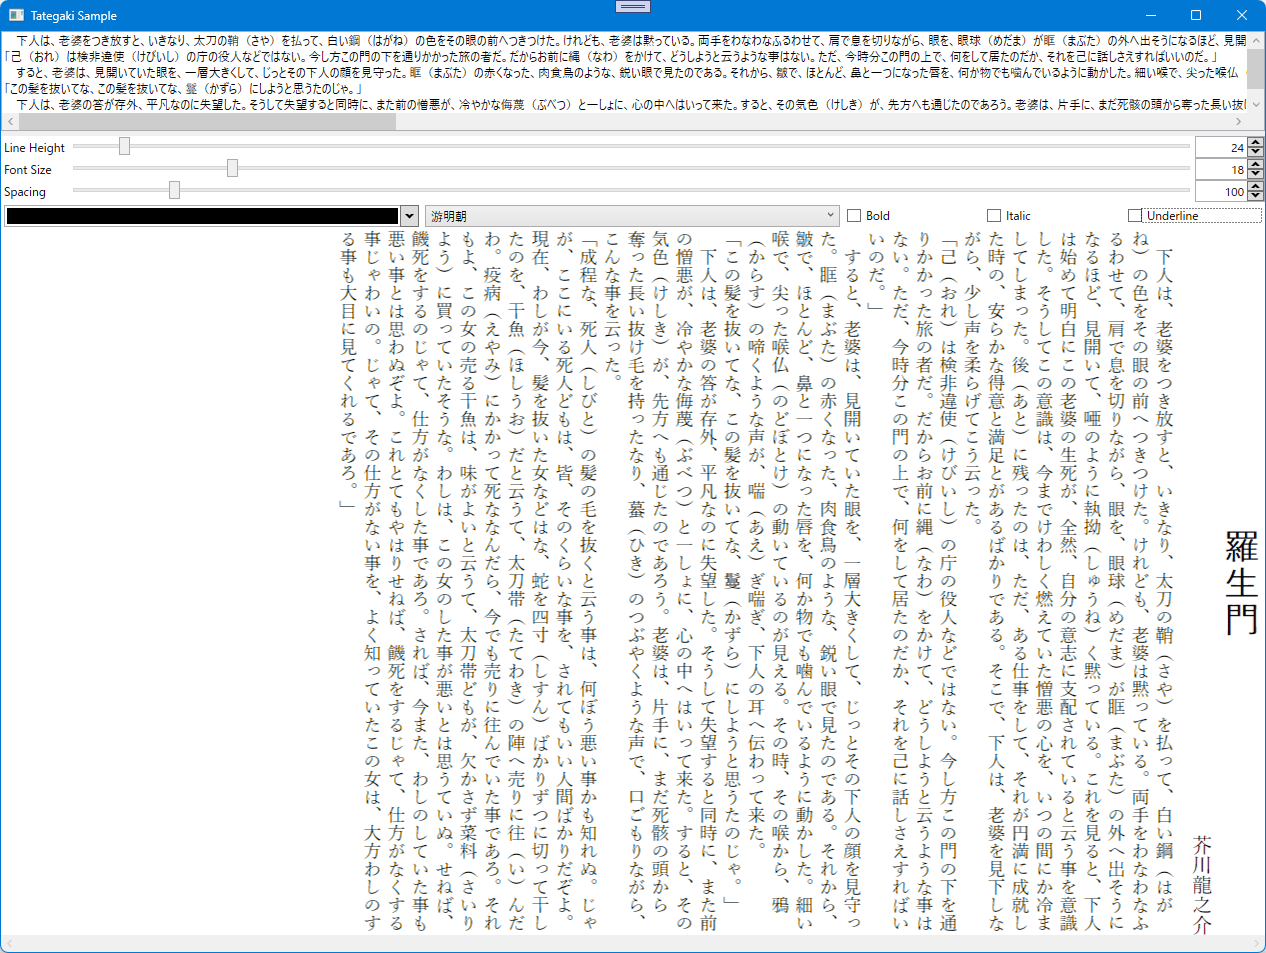
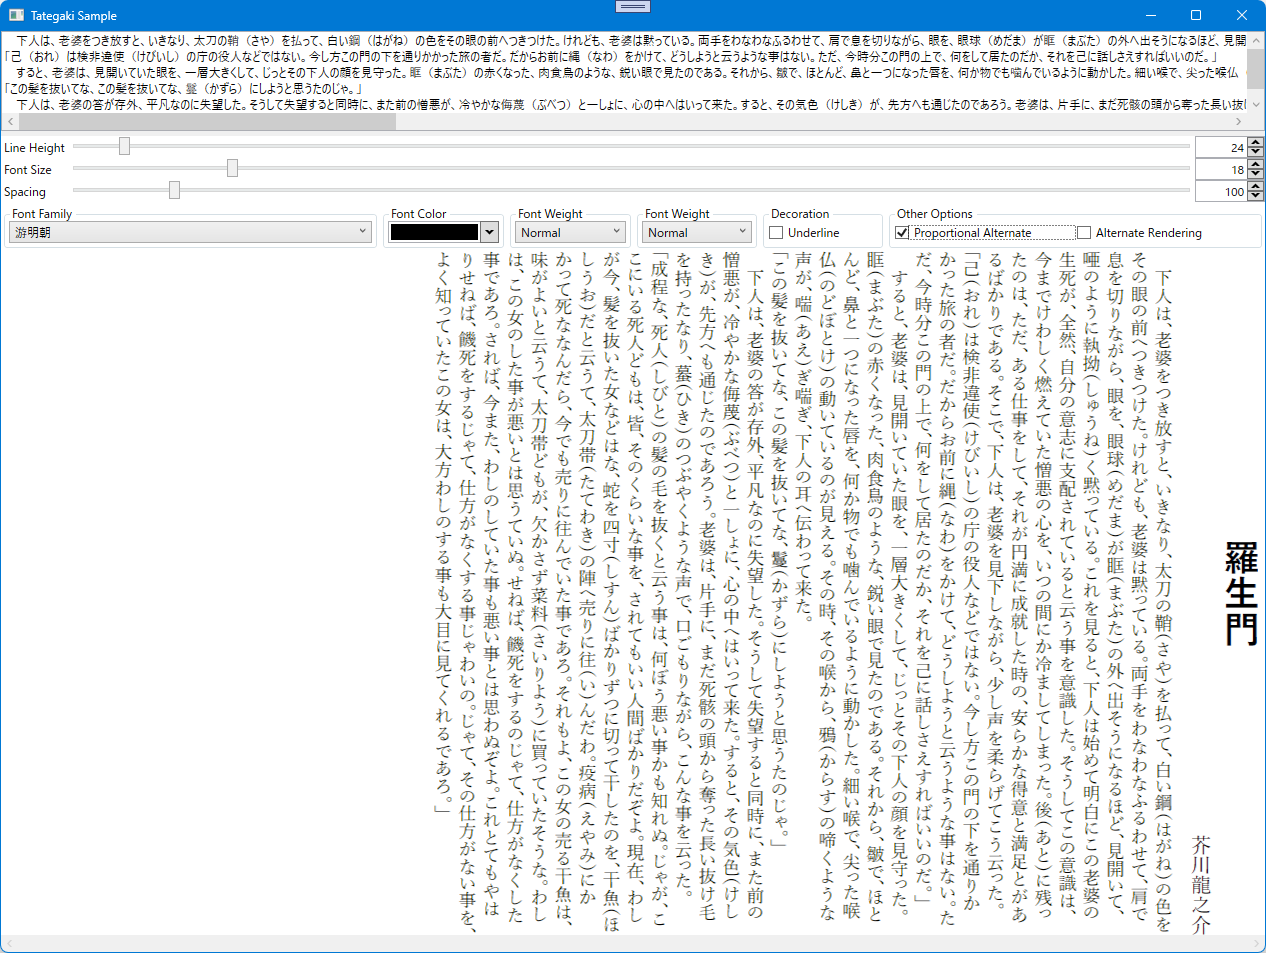
Readmeを更新

Changed region(s): [[0.0, 0.213, 0.955, 0.9738], [0.955, 0.5477, 1.0, 0.6999]]

diff --git a/README-en.md b/README-en.md
@@ -3,11 +3,11 @@
 # WPF Vertical TextBlock "Tategaki"
 
 This control library provides WPF vertical TextBlock.  
-WPF doesn't support vertical writing so that it is difficult to show a text vertically like a Japnese text. However, this control realize a vertical text like a WPF standard TextBlock control easily.
+WPF doesn't support vertical writing so that it is difficult to show a sentense vertically like a Japnese traditional style. However, this control realize a vertical writing like WPF standard TextBlock control easily.
 
 "Tategaki" means "Vertical writing" in Japanese.
 
-![](https://img.shields.io/badge/Nuget-3.1.0-blue?logo=nuget&style=plastic)
+![](https://img.shields.io/badge/Nuget-3.2.0-blue?logo=nuget&style=plastic)
 ![](https://img.shields.io/badge/.NET_Framework-4.7.2-orange?logo=.net&style=plastic)
 ![](https://img.shields.io/badge/.NET-6-orange?logo=.net&style=plastic)
 
@@ -18,12 +18,12 @@ WPF doesn't support vertical writing so that it is difficult to show a text vert
 - Windows OS
 - .NET 6 / .NET Framework 4.7.2
 
-## How to use
+## Getting started
 ### 1. Get via Nuget
-![](https://img.shields.io/badge/Nuget-3.1.0-blue?logo=nuget&style=plastic) https://www.nuget.org/packages/Tategaki/
+![](https://img.shields.io/badge/Nuget-3.2.0-blue?logo=nuget&style=plastic) https://www.nuget.org/packages/Tategaki/
 
 ### 2. Add XAML namespace
-Add namespace of "http://schemas.eh500-kintarou.com/Tategaki" and add the elements of "TategakiText" or "TategakiMultiline" in your XAML.
+Add namespace of "http://schemas.eh500-kintarou.com/Tategaki" and add the elements of "TategakiText" in your XAML.
 ```xaml
 <Window x:Class="TategakiTextTest.Views.MainWindow"
         xmlns="http://schemas.microsoft.com/winfx/2006/xaml/presentation"
@@ -41,16 +41,23 @@ Add namespace of "http://schemas.eh500-kintarou.com/Tategaki" and add the elemen
 This repository contains [a sample project](https://github.com/EH500-Kintarou/Tategaki/tree/master/TategakiSample). It will make you more clear how to use it.
 
 ## Project URL
-![](https://img.shields.io/badge/Github-3.1.0-green?logo=github&style=plastic) https://github.com/EH500-Kintarou/Tategaki  
-![](https://img.shields.io/badge/Nuget-3.1.0-blue?logo=nuget&style=plastic) https://www.nuget.org/packages/Tategaki/  
-![](https://img.shields.io/badge/Blogger-3.1.0-orange?logo=blogger&style=plastic) https://days-of-programming.blogspot.com/search/label/WPF%E7%94%A8%E7%B8%A6%E6%9B%B8%E3%81%8D%E3%83%86%E3%82%AD%E3%82%B9%E3%83%88%E3%83%96%E3%83%AD%E3%83%83%E3%82%AF%20Tategaki
+![](https://img.shields.io/badge/Github-3.2.0-green?logo=github&style=plastic) https://github.com/EH500-Kintarou/Tategaki  
+![](https://img.shields.io/badge/Nuget-3.2.0-blue?logo=nuget&style=plastic) https://www.nuget.org/packages/Tategaki/  
+![](https://img.shields.io/badge/Blogger-3.2.0-orange?logo=blogger&style=plastic) https://days-of-programming.blogspot.com/search/label/WPF%E7%94%A8%E7%B8%A6%E6%9B%B8%E3%81%8D%E3%83%86%E3%82%AD%E3%82%B9%E3%83%88%E3%83%96%E3%83%AD%E3%83%83%E3%82%AF%20Tategaki
 
 ## Libraries which is reffered to
-- TypeLoader: https://typeloader.codeplex.com/  
-TypeLoeader URL has been already expired so that it is contained in this repository.
+- System.Memory: https://www.nuget.org/packages/System.Memory/
 - Extended WPF Toolkit (Only in sample app): https://github.com/xceedsoftware/wpftoolkit
 
 ## Version History
+### ver.3.2.0 (21-April-2024)
+- Font loading library was changed from TypeLoader to my original code.
+  - An opotion of proportional font is supported if it is available.
+  - The number of available font types was increased.
+- Alternate Rendering option was implemented. It is slower than before but it can show beautiful text in specific fonts like MS PMincho.
+- Fixed the characters overlap issue when there is less space than text block and TextAlignment.Justify is selected.
+- Fixed text wrapping and Forbidden charactor rule did not work at the boundary of half-with and full-width charactor when EnableHalfWidthCharVertical is disabled.
+
 ### ver.3.1.0 (13-April-2024)
 - Following functions are added to TategakiText.
   - TextWrapping property is implemented.
